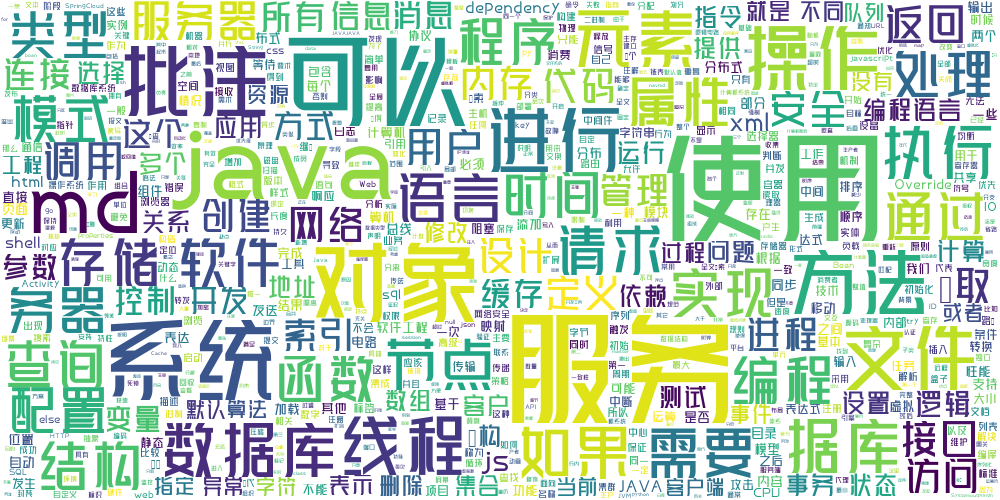
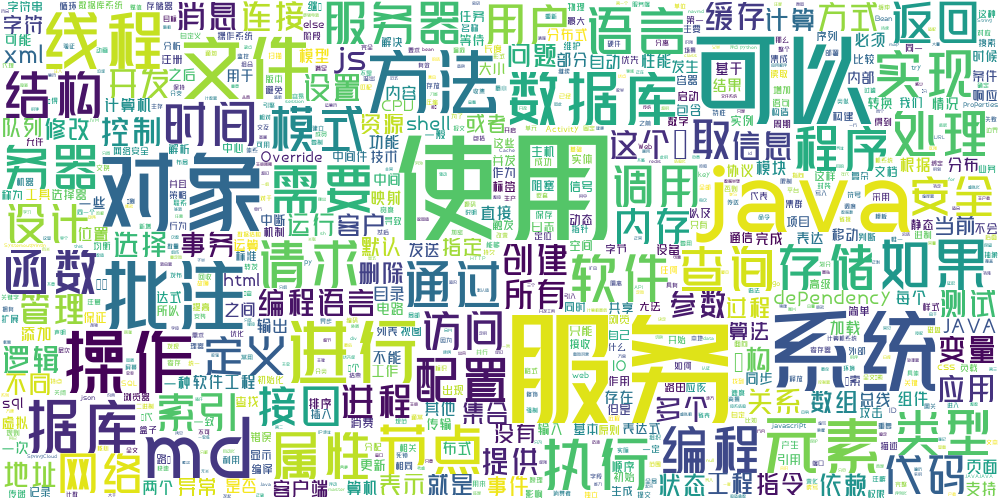
更新 python统计脚本

diff --git a/statistics.py b/statistics.py
@@ -2,6 +2,9 @@ import os
 import jieba
 import re
 from wordcloud import WordCloud
+
+import time
+from PIL import Image, ImageFont, ImageDraw
 def listAllFile(path):
   result = []
   for item in os.listdir(path):
@@ -96,4 +99,25 @@ def generateWordCloud():
   myword.to_file('./wordcloud.png')
   print(type(myword))
 
+def statisticNote():
+  text = ''
+  totalLineCount = 0
+  for item in listAllMdFile():
+    file = open(item,'rb')
+    text = text + str(file.read(),encoding="utf-8") + '\n'
+    file.close()
+  totalLineCount = len(text.split('\n'))
+  return totalLineCount
+
+def generateNoteInfo():
+  totalLineCount = statisticNote()
+  localtime = time.asctime( time.localtime(time.time()) )
+  text = u"生成时间:" + localtime + "\n" + '笔记总行数:' + str(totalLineCount)
+  im = Image.new("RGB", (300, 50), (255, 255, 255))
+  dr = ImageDraw.Draw(im)
+  font = ImageFont.truetype('font.ttf', 14)
+  dr.text((10, 5), text, font=font, fill="#000000")
+  im.save('info.png')
+
 generateWordCloud()
+generateNoteInfo()

diff --git a/README.md b/README.md
@@ -10,9 +10,13 @@
 
 ![star](https://img.shields.io/github/stars/0xcaffebabe/note) ![fork](https://img.shields.io/github/forks/0xcaffebabe/note) ![license](https://img.shields.io/github/license/0xcaffebabe/note)
 
+统计：
+
+![](https://note.ismy.wang/info.png)
+
 笔记词云：
 
-![](https://b.ismy.wang/wordcloud.png)
+![](https://note.ismy.wang/wordcloud.png)
 
 - [算法与数据结构](./算法与数据结构/nav.md)
   - [排序](./算法与数据结构/排序.md)
